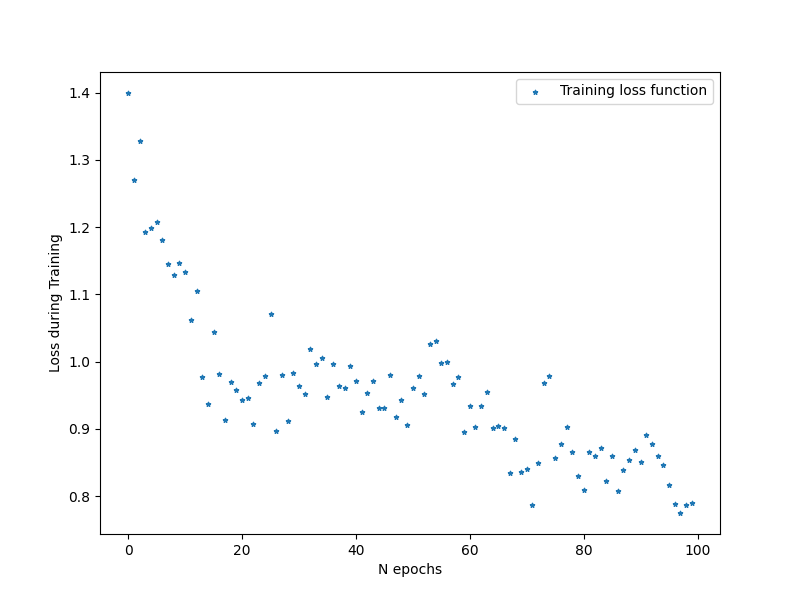
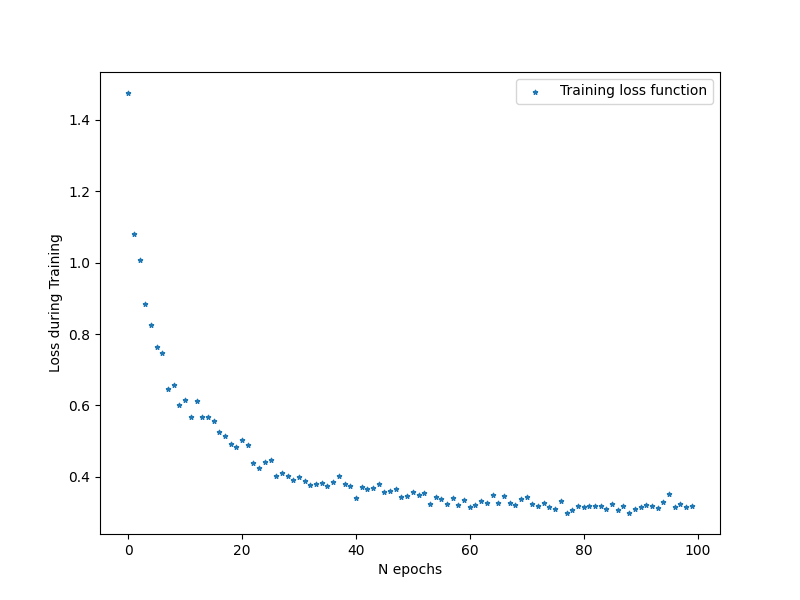
Training with standard scaling and 21, 14 layer dimensions

diff --git a/autoencoder.py b/autoencoder.py
@@ -53,7 +53,7 @@ class AutoEncoder(nn.Module):
             nn.ReLU(),
             nn.Linear(35, input_dim),
             # nn.ReLU() # MinMax Scaling 
-            # Standard Scaling
+            nn.PReLU() # Standard Scaling
         )
 
         # Initialize decoder weights with encoder weights
